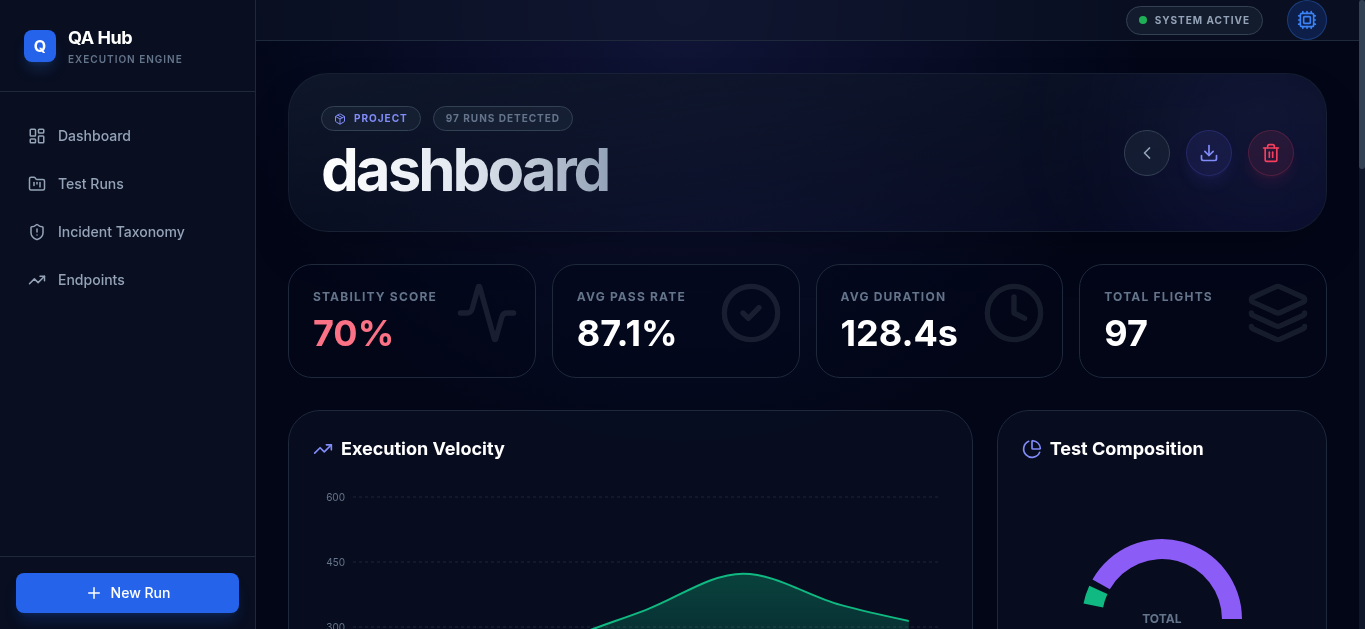
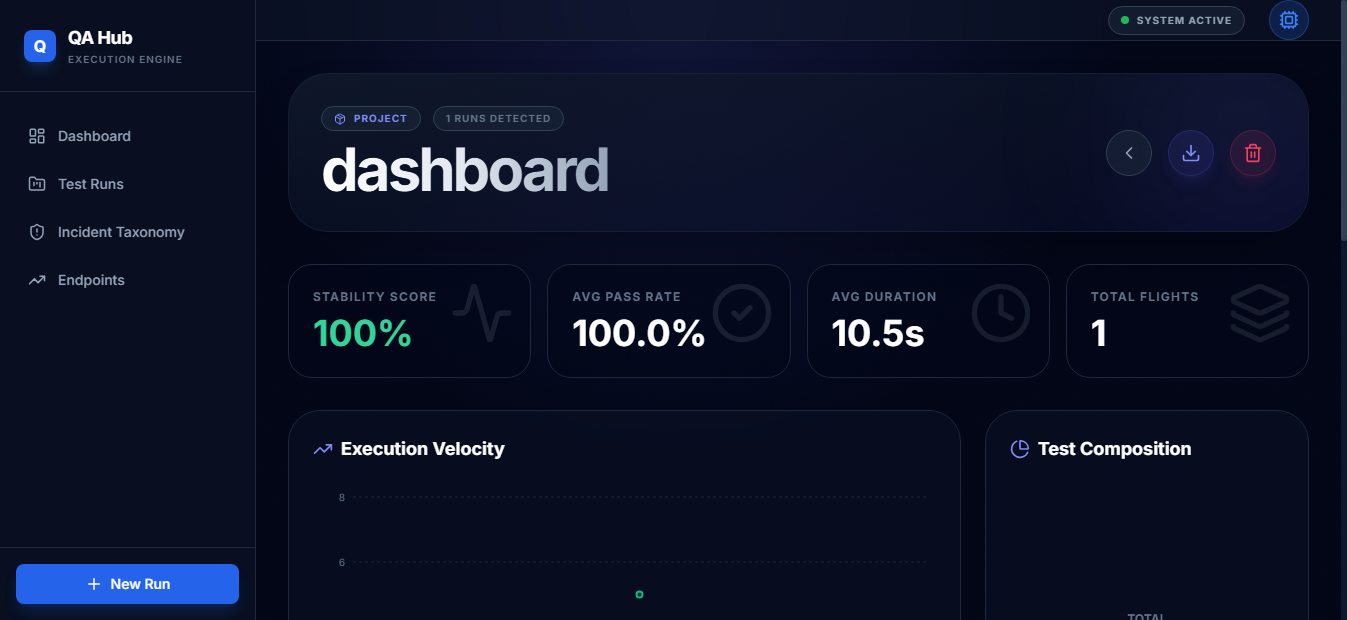
fix errors

diff --git a/features/environment.py b/features/environment.py
@@ -39,6 +39,36 @@ def before_all(context):
         f.write('"GET","/api/runs",200,0,40,45,15,150,800,10.0,0.0,40,45,50,55,60,70,80,90,120\n')
         f.write('"GET","/api/endpoints",200,0,60,65,20,180,1200,10.0,0.0,60,65,70,75,80,90,100,110,140\n')
 
+    # PROJECT-SPECIFIC SEEDING: Ensure XML test run reports exist
+    reports_run_dir = os.path.join("reports", "test_run")
+    if not os.path.exists(reports_run_dir):
+        os.makedirs(reports_run_dir)
+    
+    seed_run_dir = os.path.join(reports_run_dir, "seed_dashboard_run")
+    if not os.path.exists(seed_run_dir):
+        os.makedirs(seed_run_dir)
+        
+    xml_path = os.path.join(seed_run_dir, "results.xml")
+    if not os.path.exists(xml_path):
+        # Create a basic JUnit XML with passing tests to populate the dashboard
+        timestamp = datetime.now().isoformat()
+        xml_content = f'''<?xml version="1.0" encoding="UTF-8"?>
+<testsuites>
+  <testsuite name="dashboard.gui" tests="5" failures="0" errors="0" skipped="0" time="10.5" timestamp="{timestamp}">
+    <testcase classname="dashboard.gui.login" name="Successful Login" time="2.5"/>
+    <testcase classname="dashboard.gui.navigation" name="Navigate to Settings" time="1.2"/>
+    <testcase classname="dashboard.gui.project" name="View Project Details" time="3.0"/>
+    <testcase classname="dashboard.api.users" name="Get User List" time="0.5"/>
+    <testcase classname="dashboard.api.auth" name="Login API" time="0.8"/>
+  </testsuite>
+</testsuites>
+'''
+        with open(xml_path, "w") as f:
+            f.write(xml_content)
+    
+    print(f"[SETUP] Seeded XML report at {xml_path}")
+
+
 def before_scenario(context, scenario):
      """Initialize driver using framework lifecycle logic."""
      FrameworkHooks.before_scenario(context, scenario)

diff --git a/features/steps/gui_custom_steps.py b/features/steps/gui_custom_steps.py
@@ -69,3 +69,43 @@ def step_verify_pdf_content_generic(context, page_count, filename):
         page_text = reader.pages[i].extract_text()
         assert page_text.strip(), f"Page {i+1} of {filename} is empty or could not be read."
 
+
+@step('the downloaded executive report for today should exist')
+def step_verify_downloaded_executive_report(context):
+    """
+    Verify that the executive report for the current date exists.
+    Filename format: SENTINEL_EXECUTIVE_REPORT_YYYY-MM-DD.pdf
+    """
+    from datetime import datetime
+    import os
+    
+    today_str = datetime.now().strftime("%Y-%m-%d")
+    filename = f"SENTINEL_EXECUTIVE_REPORT_{today_str}.pdf"
+    
+    # Reuse the generic generic verification logic or just check existence
+    downloads_dir = os.path.join(os.path.expanduser("~"), "Downloads")
+    filepath = os.path.join(downloads_dir, filename)
+    
+    # Wait for file
+    for _ in range(10):
+        if os.path.exists(filepath):
+            break
+        time.sleep(1)
+        
+    assert os.path.exists(filepath), f"Executive report {filename} not found in {downloads_dir}"
+    
+    # Store filename in context for subsequent steps if needed
+    context.last_downloaded_file = filename
+
+
+@step('I verify the content of the first {page_count:d} pages of the downloaded executive report')
+def step_verify_content_of_downloaded_report(context, page_count):
+    """
+    Verify content of the report identified in previous step.
+    """
+    if not hasattr(context, 'last_downloaded_file'):
+        raise AssertionError("No downloaded file listed in context. checking step must run first.")
+    
+    step_verify_pdf_content_generic(context, page_count, context.last_downloaded_file)
+
+
